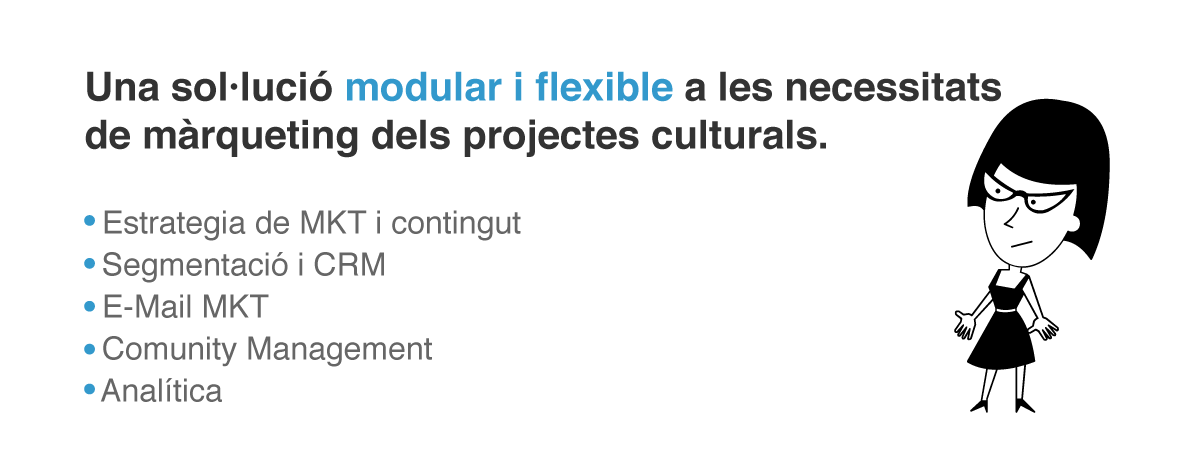
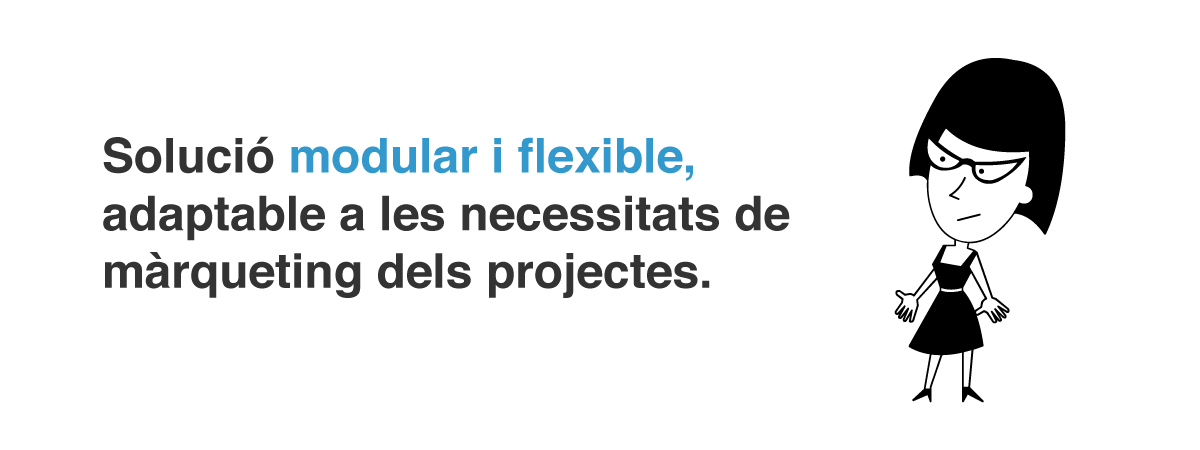
slides 1.2

diff --git a/index.php b/index.php
@@ -51,7 +51,7 @@
       
       <div class="active item" id="item-1">
          
-        <img src="img/slide/slide-home-1.4.png">
+        <img src="img/slide/slide-home-1.1.png">
         
         <span class="slide-anchor">
           <a class="slide-activo" >1</a>
@@ -64,7 +64,7 @@
                   
       <div class="item" id="item-2">
           
-          <img src="img/slide/slide-home-2.4.png">
+          <img src="img/slide/slide-home-2.3.png">
           <span class="slide-anchor">
             <a href="#myCarousel" data-slide="prev">1</a>
             <a class="slide-activo" href="#myCarousel">2</a>
@@ -74,7 +74,7 @@
       
       <div class="item" id="item-3">
           
-          <img src="img/slide/slide-home-3.5.png">
+          <img src="img/slide/slide-home-3.3.png">
           <span class="slide-anchor">
             <a href="#myCarousel" data-slide="next">1</a>
             <a href="#myCarousel" data-slide="prev">2</a>
